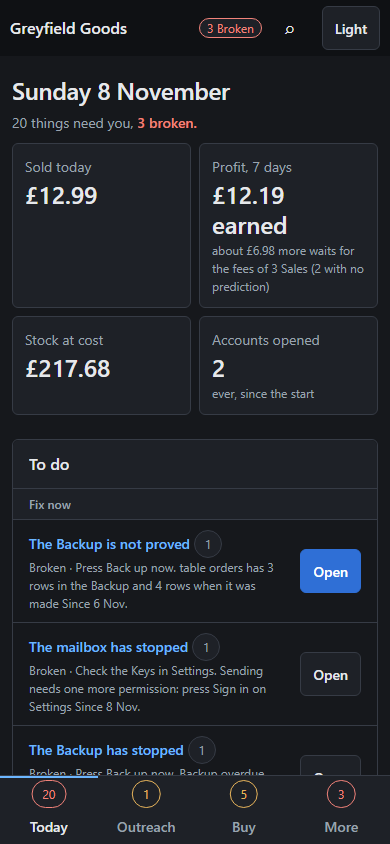
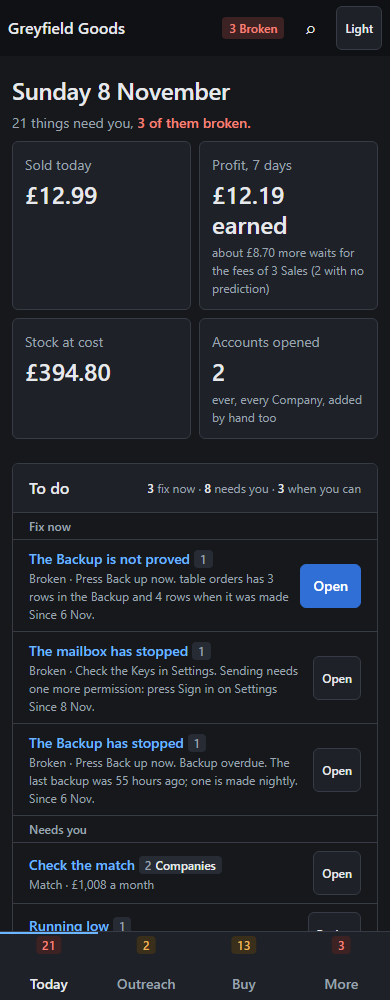
Re-take the eleven dark screenshots in Look A, from Greyfield master 0786584
Taken from Greyfield's look home at 0786584 (origin/master), dark, every company
name, domain and email renamed to Sample Wholesaler A, B, ... in memory only.
Captions and alt text now name the four tabs (Today, Outreach, Buy, More).

diff --git a/index.html b/index.html
@@ -55,20 +55,20 @@
   <p class="note">These use made-up sample data: every company name, price and figure below is invented for testing. No real supplier, price or sale is shown. They follow the buying chain in order, from finding wholesalers to what sold.</p>
 
   <figure>
-    <img src="img/01-today.png" alt="The Today page in dark mode: a to-do list sorted into Fix now, Needs you and When you can, beside the seven steps of the buying chain with a count on each." loading="lazy">
+    <img src="img/01-today.png" alt="The Today page in dark mode, under four tabs (Today, Outreach, Buy, More) with a count on each: figures for sales and profit, a to-do list sorted into Fix now, Needs you and When you can, beside the seven steps of the buying chain." loading="lazy">
     <figcaption>Today: what needs me, sorted by urgency, and where each step of the chain stands. Problems such as an unproven backup show up here first.</figcaption>
   </figure>
   <figure>
-    <img src="img/02-targets.png" alt="The Targets page: a wholesaler found in a trade directory, with six checks marked passed and a choice to apply or skip." loading="lazy">
-    <figcaption>Find: wholesalers found in trade directories, each checked on six points (sign-up, Amazon sellers, minimum order, sector, UK stock, brands) before I decide to approach them.</figcaption>
+    <img src="img/02-targets.png" alt="The Targets page under the Outreach tab: a wholesaler found in a trade directory, with all six checks marked passed and a choice to mark the form applied or skip it." loading="lazy">
+    <figcaption>Find (the Outreach tab): wholesalers found in trade directories, each checked on six points (sign-up, Amazon sellers, minimum order, sector, UK stock, brands) before I decide to approach them.</figcaption>
   </figure>
   <figure>
-    <img src="img/03-messages.png" alt="The Messages page: an inbox of supplier replies on the left, and one reply opened on the right with labels to tick and a reply to draft." loading="lazy">
-    <figcaption>Approach: supplier emails read in one place. I label each reply (account open, price list sent, declined…) and the app drafts the next message, which I send.</figcaption>
+    <img src="img/03-messages.png" alt="The Messages page under the Outreach tab: a list of supplier messages on the left, and one reply opened on the right with its to-do and a reply to draft." loading="lazy">
+    <figcaption>Approach (the Outreach tab): supplier emails read in one place. Each reply is labelled and comes with its next to-do, and the app drafts the next message, which I send.</figcaption>
   </figure>
   <figure>
-    <img src="img/04-company.png" alt="A supplier's page: where the account stands, its price lists, its buy list, its orders, contacts and trading terms." loading="lazy">
-    <figcaption>Account: everything about one supplier on one page: where the account stands and the next step, its price lists, what's worth buying, past orders and terms.</figcaption>
+    <img src="img/04-company.png" alt="A supplier's Company page under the More tab: where the account stands, its price lists, its buy list, its orders, contacts and trading terms." loading="lazy">
+    <figcaption>Account (the More tab): everything about one supplier on one page: where the account stands and the next step, its price lists, what's worth buying, past orders and terms.</figcaption>
   </figure>
   <figure>
     <img src="img/05-price-list.png" alt="One imported price list: which column each fact was read from, and sample lines to check the cost per unit." loading="lazy">
@@ -79,15 +79,15 @@
     <figcaption>Match and judge: one line matched to its Amazon listing, with profit per unit after every Amazon fee and VAT, the buying rule's verdict and how much to reorder.</figcaption>
   </figure>
   <figure>
-    <img src="img/07-buy-list.png" alt="The Buy page: lines that pass the buying rule, with cost, Buy Box price, profit, return on investment and monthly sales." loading="lazy">
-    <figcaption>Buy: every line that passes the buying rule, ranked by profit a month. Failed data reads are shown at the top rather than hidden.</figcaption>
+    <img src="img/07-buy-list.png" alt="The Buy page, the first of the Buy tab: lines that pass the buying rule, with cost, Buy Box price, profit, return on investment and monthly sales." loading="lazy">
+    <figcaption>Buy (the Buy tab): every line that passes the buying rule, ranked by profit a month. Failed data reads are counted beside the title rather than hidden.</figcaption>
   </figure>
   <figure>
     <img src="img/08-basket.png" alt="A basket for one supplier: proposed quantities from demand and stock held, cash out against the budget, and the order to place." loading="lazy">
     <figcaption>Basket: quantities proposed from demand and stock already held, kept within the order budget. The app sends no order and pays nothing; I place it and record it.</figcaption>
   </figure>
   <figure>
-    <img src="img/09-offers.png" alt="The Offers page: live offers with the floor and ceiling prices for Amazon's automated pricing." loading="lazy">
+    <img src="img/09-offers.png" alt="The Offers page: offers with the floor and ceiling prices for Amazon's automated pricing." loading="lazy">
     <figcaption>Sell: the floor and ceiling price for each offer, so Amazon's automated pricing never sells below the least profit.</figcaption>
   </figure>
   <figure>
@@ -95,7 +95,7 @@
     <figcaption>Sales: every Amazon sale with the profit it earned once fees are in, and each return or refund under its sale.</figcaption>
   </figure>
   <figure class="phone">
-    <img src="img/11-phone.png" alt="The Today page on a phone: the same figures and to-do list in one column, with tabs at the bottom." loading="lazy">
+    <img src="img/11-phone.png" alt="The Today page on a phone: the same figures and to-do list in one column, with the four tabs at the bottom." loading="lazy">
     <figcaption>The same app on a phone, reached privately over my own network.</figcaption>
   </figure>
 
